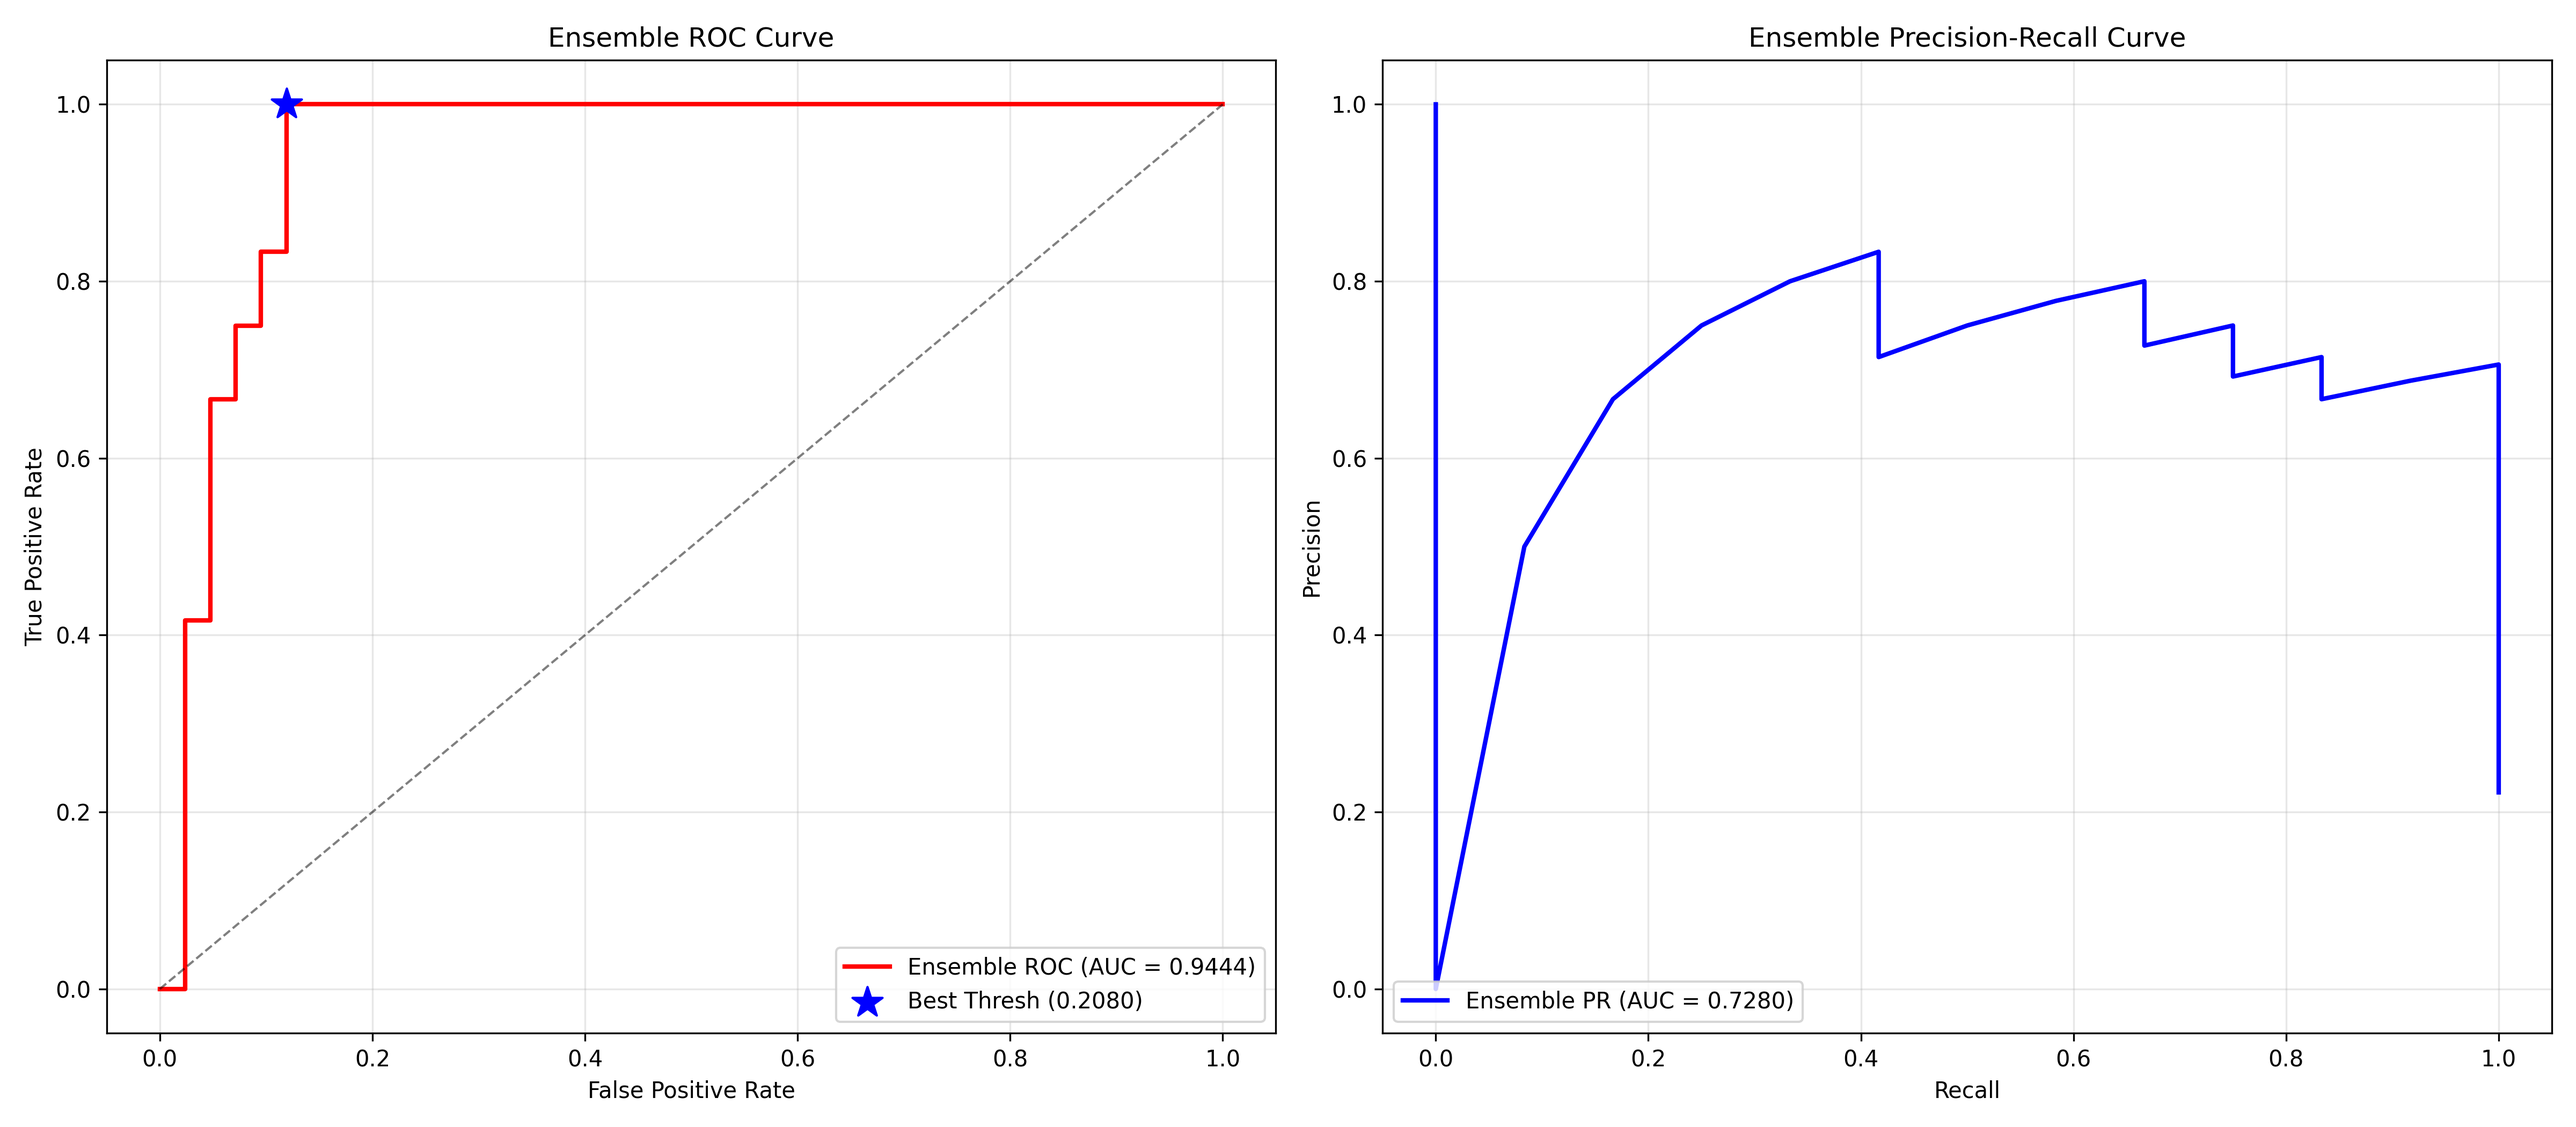
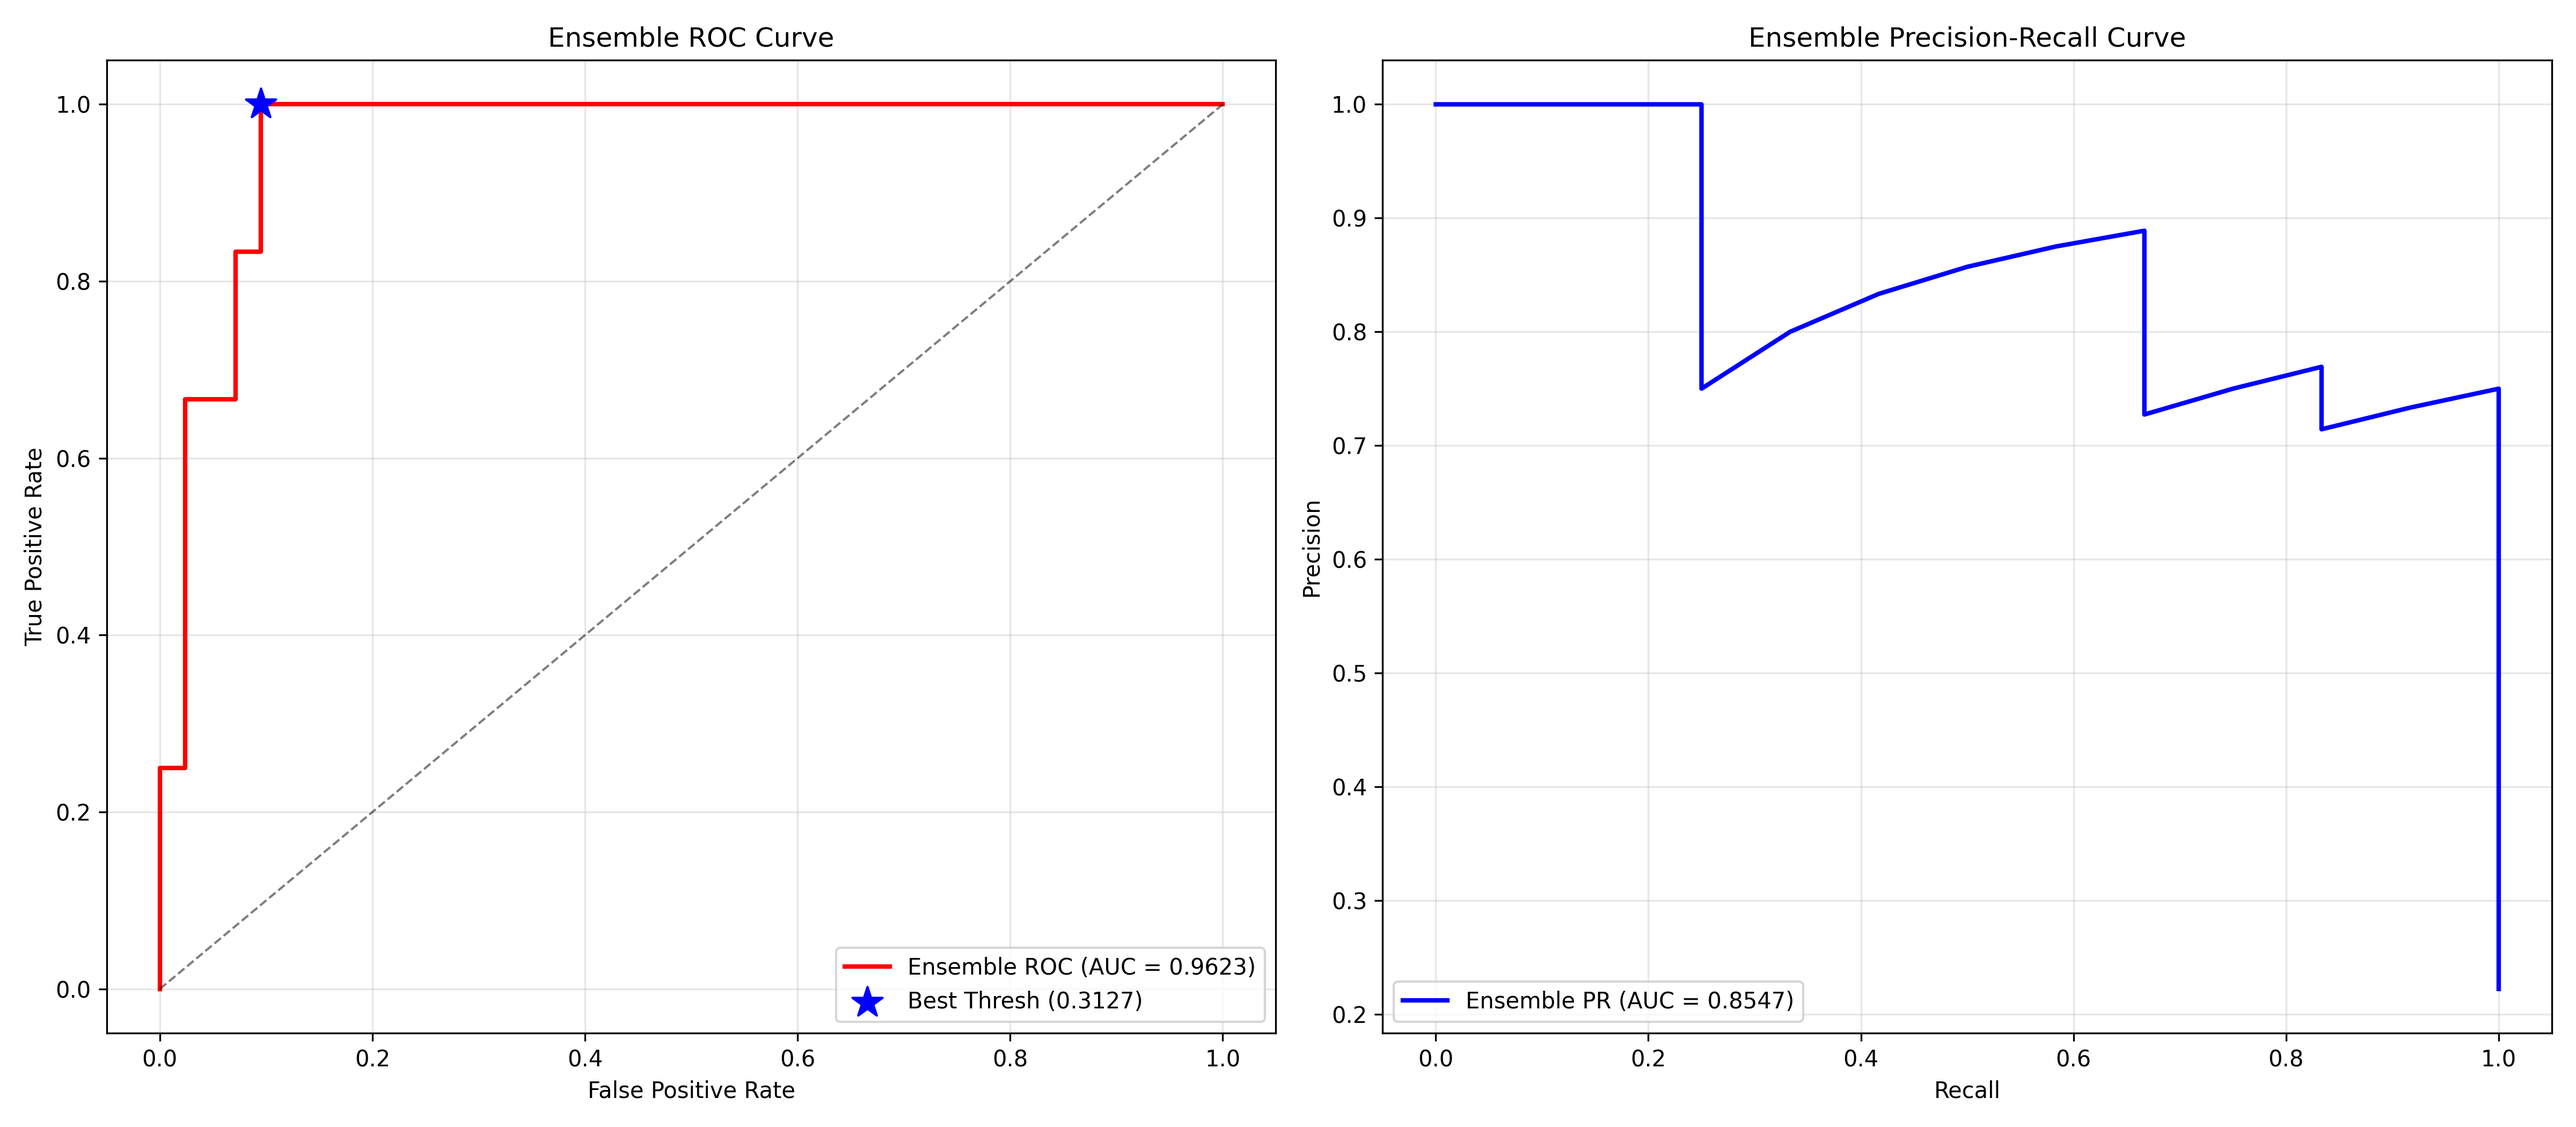
abmil 베이스라인(kd_path=None), mcat 코드 수정

diff --git a/jsy/models/mcat/modules/mcat_train_binary.py b/jsy/models/mcat/modules/mcat_train_binary.py
@@ -60,31 +60,7 @@ def train_binary(epoch, model, loader, optimizer, loss_fn, gc=16):
     all_labels = np.array(all_labels)
     all_probs = np.array(all_probs)
     
-    try:
-        auroc = roc_auc_score(all_labels, all_probs)
-        auprc = average_precision_score(all_labels, all_probs)
-        
-        # 🔥 F1-Score Maximization 적용 구간 🔥
-        # thresholds 배열보다 precisions, recalls 배열의 길이가 1 더 깁니다.
-        precisions, recalls, thresholds = precision_recall_curve(all_labels, all_probs)
-        
-        # 분모가 0이 되는 것을 방지하기 위해 1e-8(epsilon) 추가
-        f1_scores = 2 * (precisions[:-1] * recalls[:-1]) / (precisions[:-1] + recalls[:-1] + 1e-8)
-        
-        # F1 Score가 최대가 되는 인덱스 추출
-        best_idx = np.argmax(f1_scores)
-        best_thresh = thresholds[best_idx]
-        
-        # 극단적인 임계값(전부 다 0이거나 전부 다 1로 찍는 경우) 방지를 위한 클리핑(Clipping)
-        # best_thresh = np.clip(best_thresh, 0.05, 0.95)
-    except ValueError:
-        auroc = 0.5
-        auprc = 0.0
-        best_thresh = 0.5
-
-    # 찾아낸 최적의 Threshold로 예측값(preds)을 한 번에 생성
-    all_preds = (all_probs >= best_thresh).astype(float)
-    f1 = f1_score(all_labels, all_preds, zero_division=0)
+    auroc, auprc, best_thresh, f1 = predict_binary(all_probs, all_labels)
     
     # 에폭 단위 결과 출력
     print(f'====> Epoch: {epoch:02d} | Train Loss: {avg_loss:.4f} | Train AUROC: {auroc:.4f} | Train AUPRC: {auprc:.4f} | Train F1: {f1:.4f} | Train Thresh: {best_thresh:.4f} <====')
@@ -133,21 +109,33 @@ def validate_binary(epoch, model, loader, loss_fn):
     all_labels = np.array(all_labels)
     all_probs = np.array(all_probs)
     
+    auroc, auprc, best_thresh, f1 = predict_binary(all_probs, all_labels)
+    
+    # 에폭 단위 결과 출력
+    print(f'====> Epoch: {epoch:02d} | Valid Loss: {avg_loss:.4f} | Valid AUROC: {auroc:.4f} | Valid AUPRC: {auprc:.4f} | Valid F1: {f1:.4f} | Valid Thresh: {best_thresh:.4f} <====')
+    
+    # return avg_loss, auroc, auprc, f1, best_thresh
+    return auroc, auprc, best_thresh
+
+def predict_binary(all_probs, all_labels, threshold_method='youden'):
     try:
         auroc = roc_auc_score(all_labels, all_probs)
         auprc = average_precision_score(all_labels, all_probs)
         
-        # 🔥 F1-Score Maximization 적용 구간 🔥
-        # thresholds 배열보다 precisions, recalls 배열의 길이가 1 더 깁니다.
-        precisions, recalls, thresholds = precision_recall_curve(all_labels, all_probs)
-        fpr, tpr, roc_thresholds = roc_curve(all_labels, all_probs)
-        # 분모가 0이 되는 것을 방지하기 위해 1e-8(epsilon) 추가
-        # f1_scores = 2 * (precisions[:-1] * recalls[:-1]) / (precisions[:-1] + recalls[:-1] + 1e-8)
-        youden_j = tpr - fpr
+        if threshold_method == 'youden':
+            # youden index
+            fpr, tpr, thresholds = roc_curve(all_labels, all_probs)
+            index = tpr - fpr
+        else:
+            # 🔥 F1-Score Maximization 적용 구간 🔥
+            # thresholds 배열보다 precisions, recalls 배열의 길이가 1 더 깁니다.
+            # 분모가 0이 되는 것을 방지하기 위해 1e-8(epsilon) 추가
+            precisions, recalls, thresholds = precision_recall_curve(all_labels, all_probs)
+            index = 2 * (precisions[:-1] * recalls[:-1]) / (precisions[:-1] + recalls[:-1] + 1e-8)
         
         # F1 Score가 최대가 되는 인덱스 추출
         # best_idx = np.argmax(f1_scores)
-        best_idx = np.argmax(youden_j)
+        best_idx = np.argmax(index)
         best_thresh = thresholds[best_idx]
         
         # 극단적인 임계값(전부 다 0이거나 전부 다 1로 찍는 경우) 방지를 위한 클리핑(Clipping)
@@ -160,9 +148,4 @@ def validate_binary(epoch, model, loader, loss_fn):
     # 찾아낸 최적의 Threshold로 예측값(preds)을 한 번에 생성
     all_preds = (all_probs >= best_thresh).astype(float)
     f1 = f1_score(all_labels, all_preds, zero_division=0)
-    
-    # 에폭 단위 결과 출력
-    print(f'====> Epoch: {epoch:02d} | Valid Loss: {avg_loss:.4f} | Valid AUROC: {auroc:.4f} | Valid AUPRC: {auprc:.4f} | Valid F1: {f1:.4f} | Valid Thresh: {best_thresh:.4f} <====')
-    
-    # return avg_loss, auroc, auprc, f1, best_thresh
-    return auroc, auprc, best_thresh
+    return auroc, auprc, best_thresh, f1

diff --git a/jsy/config.py b/jsy/config.py
@@ -5,16 +5,26 @@ from sklearn.model_selection import train_test_split, StratifiedKFold
 ENCODER_MODEL='gigapath'    # gigapath, uni_v2
 SEED = 42
 
-def get_feats_path():
-    # return '/home/team1/data/gigapath_processed/20.0x_256px_0px_overlap/features_gigapath'
-    return "/home/team/projects/team_REDCAB/team_project/data/gigapath_processed/20.0x_256px_0px_overlap/features_gigapath"
-    # return "/home/team/projects/team_REDCAB/team_project/data/cptac_processed/20.0x_256px_0px_overlap/features_gigapath"
+def get_feats_path(encoder='gigapath'):
+    if encoder == 'gigapath':
+        return '/home/team1/data/gigapath_processed/20.0x_256px_0px_overlap/features_gigapath'
+    elif encoder == 'uni_v2':
+        return '/home/team1/data/trident_processed/20.0x_256px_0px_overlap/features_uni_v2'
+    elif encoder == 'cptac':
+        return '/home/team1/data/cptac_processed/20.0x_256px_0px_overlap/features_gigapath'
+    else:
+        return '/home/team/projects/team_REDCAB/team_project/data/gigapath_processed/features_gigapath'
+        
 
-def get_coords_path():
-    # coords_path = '/home/team1/data/gigapath_processed/20.0x_256px_0px_overlap/patches_gigapath'
-    coords_path = '/home/team/projects/team_REDCAB/team_project/data/gigapath_processed/20.0x_256px_0px_overlap/patches'
-    # coords_path = '/home/team/projects/team_REDCAB/team_project/data/cptac_processed/20.0x_256px_0px_overlap/patches'
-    return coords_path
+def get_coords_path(encoder='gigapath'):
+    if encoder == 'gigapath':
+        return '/home/team1/data/gigapath_processed/20.0x_256px_0px_overlap/patches_gigapath'
+    elif encoder == 'uni_v2':
+        return '/home/team1/data/trident_processed/20.0x_256px_0px_overlap/patches_uni_v2'
+    elif encoder == 'cptac':
+        return '/home/team1/data/cptac_processed/20.0x_256px_0px_overlap/patches'
+    else:
+        return '/home/team/projects/team_REDCAB/team_project/data/gigapath_processed/patches_gigapath'
 
 def get_label_path():
     label_path = os.path.join('labels', f'clinical_data_seed_{SEED}.csv')

diff --git a/jsy/utils/mcat_student_train_binary.py b/jsy/utils/mcat_student_train_binary.py
@@ -45,7 +45,7 @@ def kd_loss_fn(s_logits, s_path_bag, s_attn, t_logits, t_path_bag, t_attn, label
 # ==========================================
 
 
-def train_binary(epoch, model, loader, optimizer, loss_fn, gc=16):
+def train_binary(epoch, model, loader, optimizer, loss_fn, gc=16, kd_path=None):
     device = torch.device("cuda" if torch.cuda.is_available() else "cpu")
     model.train()
     
@@ -71,7 +71,10 @@ def train_binary(epoch, model, loader, optimizer, loss_fn, gc=16):
         if s_logits.dim() == 0:
             s_logits = s_logits.unsqueeze(0)
         
-        loss = kd_loss_fn(s_logits, s_path_bag, s_attn, t_logits, t_path_bag, t_attn, label, loss_fn, alpha=0.5, beta=0.5, gamma=0.01)
+        if kd_path is not None:
+            loss = kd_loss_fn(s_logits, s_path_bag, s_attn, t_logits, t_path_bag, t_attn, label, loss_fn, alpha=0.5, beta=0.5, gamma=0.01)
+        else:
+            loss = loss_fn(s_logits, labels)
         loss_value = loss.item()
         
         loss = loss / gc 

diff --git a/jsy/models/mcat/train.py b/jsy/models/mcat/train.py
@@ -3,7 +3,7 @@ os.environ["PYTORCH_CUDA_ALLOC_CONF"] = "expandable_segments:True"
 import torch
 import torch.nn as nn
 from torch.utils.data import DataLoader
-from modules.mcat_multimodal_dataset import MSI_Multimodal_Dataset, get_label_path
+from modules.mcat_multimodal_dataset import MSI_Multimodal_Dataset, get_label_path, get_feats_path
 from modules.mcat_model import MCAT_Binary, BinaryFocalLoss
 from modules.mcat_train_binary import train_binary, validate_binary
 import numpy as np
@@ -22,7 +22,7 @@ def main():
 
     # 2. 전체 데이터셋 로드 (이전 단계에서 만든 MSI_Multimodal_Dataset)
     common_patients = "./data/common_patients.txt" # 경로 수정 필요
-    feats_path = "/home/team/projects/team_REDCAB/team_project/data/gigapath_processed/20.0x_256px_0px_overlap/features_gigapath"        # 경로 수정 필요
+    feats_path = get_feats_path()
     npy_path = "./data/genomic_input_matrix.npy"
     pkl_path = "./data/genomic_encoding_states.pkl"
     

diff --git a/jsy/models/mcat/test_ensemble.py b/jsy/models/mcat/test_ensemble.py
@@ -10,7 +10,7 @@ from torch.utils.data import DataLoader
 import matplotlib.pyplot as plt
 import seaborn as sns 
 # 기존에 작성한 모듈 임포트
-from modules.mcat_multimodal_dataset import MSI_Multimodal_Dataset, get_label_path
+from modules.mcat_multimodal_dataset import MSI_Multimodal_Dataset, get_label_path,get_feats_path
 from modules.mcat_model import MCAT_Binary
 
 import logging
@@ -224,7 +224,7 @@ def evaluate_test_set(result_path, csv_path, feats_path, npy_path, pkl_path):
 if __name__ == '__main__':
     PATIENTS_LABEL = "./data/common_patients.txt"
     CSV_PATH = get_label_path(PATIENTS_LABEL) # get_label_path가 정의되어 있다고 가정
-    FEATS_PATH = "/home/team/projects/team_REDCAB/team_project/data/gigapath_processed/20.0x_256px_0px_overlap/features_gigapath"
+    FEATS_PATH = get_feats_path()
     NPY_PATH = "./data/genomic_input_matrix.npy"
     PKL_PATH = "./data/genomic_encoding_states.pkl"
     RESULT_PATH = "./results_msi"

diff --git a/jsy/models/mcat/modules/mcat_multimodal_dataset.py b/jsy/models/mcat/modules/mcat_multimodal_dataset.py
@@ -47,6 +47,16 @@ def get_label_path(path):
     df.to_csv(label_path, index=False)
     return label_path
 
+def get_feats_path(encoder='gigapath'):
+    if encoder == 'gigapath':
+        return '/home/team1/data/gigapath_processed/20.0x_256px_0px_overlap/features_gigapath'
+    elif encoder == 'uni_v2':
+        return '/home/team1/data/trident_processed/20.0x_256px_0px_overlap/features_uni_v2'
+    elif encoder == 'cptac':
+        return '/home/team1/data/cptac_processed/20.0x_256px_0px_overlap/features_gigapath'
+    else:
+        return '/home/team/projects/team_REDCAB/team_project/data/gigapath_processed/features_gigapath'
+
 
 class MSI_Multimodal_Dataset(Dataset):
     def __init__(self, split, fold_col,  csv_path, feats_path, npy_path, pkl_path):
@@ -115,4 +125,5 @@ class MSI_Multimodal_Dataset(Dataset):
         label = torch.tensor(row["msi"], dtype=torch.float32)
         
         return path_features, genomic_features, label
+
 

diff --git a/jsy/models/mcat/test.py b/jsy/models/mcat/test.py
@@ -6,7 +6,7 @@ from torch.utils.data import DataLoader
 from tqdm import tqdm
 
 # 기존에 작성한 모듈 임포트
-from modules.mcat_multimodal_dataset import MSI_Multimodal_Dataset, get_label_path
+from modules.mcat_multimodal_dataset import MSI_Multimodal_Dataset, get_label_path, get_feats_path
 from modules.mcat_model import MCAT_Binary
 
 def evaluate_test_set(result_path, csv_path, feats_path, npy_path, pkl_path):
@@ -94,7 +94,7 @@ if __name__ == '__main__':
     # 테스트에 필요한 경로 설정
     PATIENTS_LABEL = "./data/common_patients.txt"
     CSV_PATH = get_label_path(PATIENTS_LABEL)
-    FEATS_PATH = "/home/team/projects/team_REDCAB/team_project/data/gigapath_processed/20.0x_256px_0px_overlap/features_gigapath"
+    FEATS_PATH = get_feats_path()
     NPY_PATH = "./data/genomic_input_matrix.npy"
     PKL_PATH = "./data/genomic_encoding_states.pkl"
     RESULT_PATH = "./results_msi"

diff --git a/jsy/models/mcat/extract_teacher_knowledge.py b/jsy/models/mcat/extract_teacher_knowledge.py
@@ -7,13 +7,13 @@ from tqdm import tqdm
 from torch.utils.data import DataLoader
 
 # 사용자님의 기존 클래스 및 함수 임포트
-from modules.mcat_multimodal_dataset import MSI_Multimodal_Dataset, get_label_path
+from modules.mcat_multimodal_dataset import MSI_Multimodal_Dataset, get_label_path, get_feats_path
 from modules.mcat_model import MCAT_Binary
 
 # 설정값 로드 (기존 config 활용)
 common_patients = "./data/common_patients.txt"
 LABEL_PATH = get_label_path(common_patients)
-FEATS_PATH = "/home/team/projects/team_REDCAB/team_project/data/gigapath_processed/20.0x_256px_0px_overlap/features_gigapath"
+FEATS_PATH = get_feats_path('gigapath')
 NPY_PATH = "./data/genomic_input_matrix.npy"
 GENOMIC_PKL_PATH = "./data/genomic_encoding_states.pkl"
 RESULT_PATH = "./results_msi"

diff --git a/jsy/abmil_student_train.py b/jsy/abmil_student_train.py
@@ -72,6 +72,7 @@ for fold_idx in range(5):
     current_fold_col = f'fold_{fold_idx}'
     
     # 💡 티처의 지식 파일 경로 설정
+    kd_path = None
     kd_path = os.path.join(KNOWLEDGE_DIR, f'knowledge_fold{fold_idx}_train.pkl')
 
     # 1. Fold마다 데이터로더 새롭게 구성
@@ -102,7 +103,7 @@ for fold_idx in range(5):
     # 3. Training & Validation Loop
     for epoch in range(num_epochs):
         print(f'Epoch_{epoch} start')
-        train_binary(epoch, model, train_loader, optimizer, criterion, gc=gc_steps)
+        train_binary(epoch, model, train_loader, optimizer, criterion, gc=gc_steps, kd_path=kd_path)
         val_auroc, val_auprc,val_thresh = validate_binary(epoch, model, val_loader, criterion)
 
 
